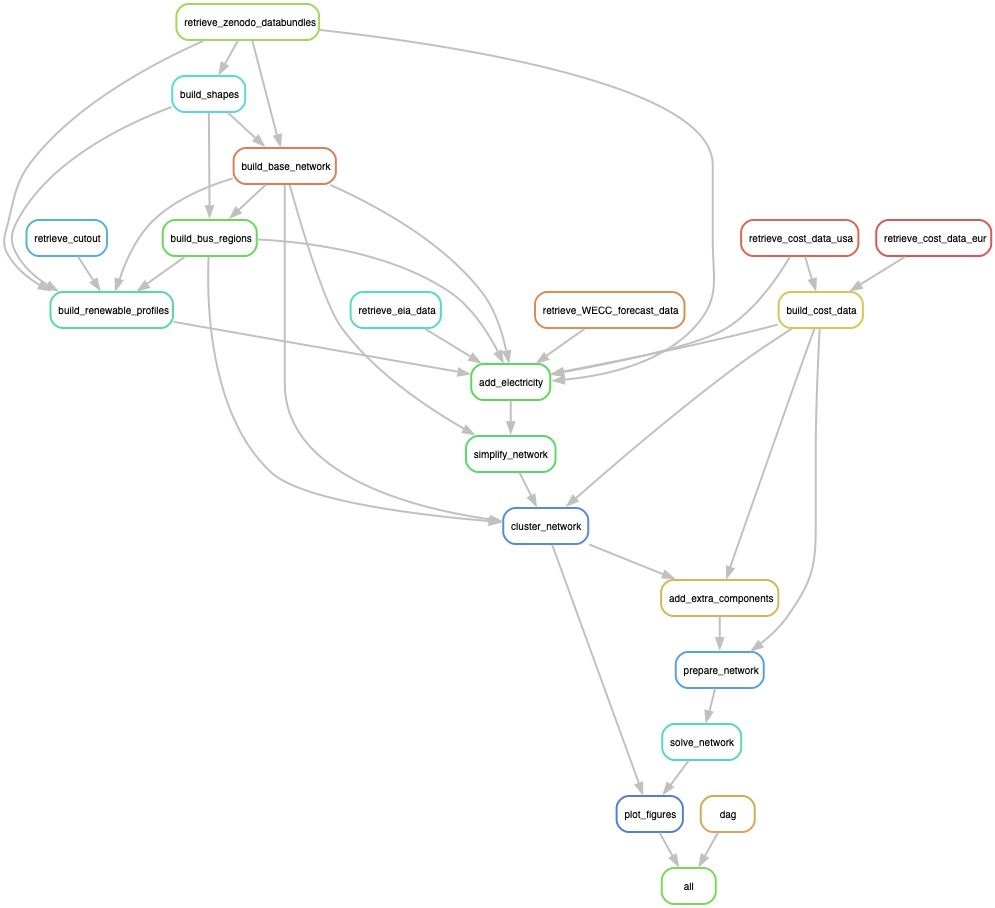
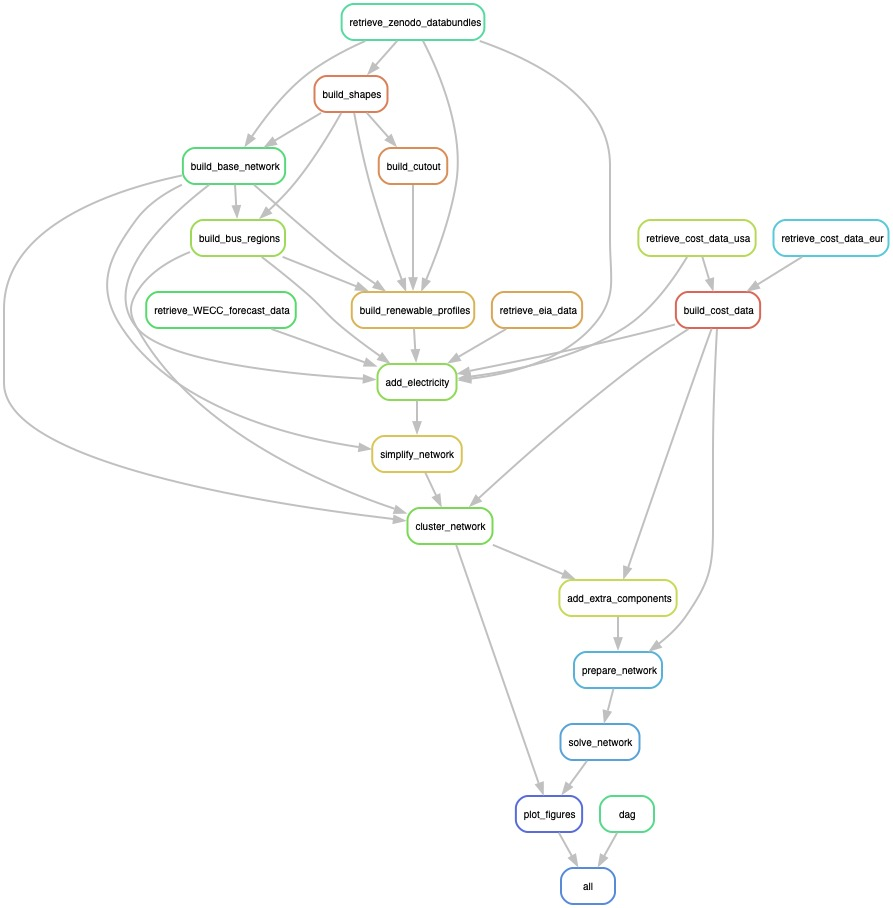
Adds exclusive Economic zone based Offshore Wind shape

diff --git a/workflow/scripts/build_shapes.py b/workflow/scripts/build_shapes.py
@@ -51,6 +51,7 @@ import pandas as pd
 import logging
 from _helpers import mock_snakemake, configure_logging
 from typing import List
+import matplotlib.pyplot as plt
 
 def load_na_shapes(state_shape: str = "admin_1_states_provinces") -> gpd.GeoDataFrame:
     """Creates geodataframe of north america"""
@@ -90,16 +91,17 @@ def combine_offshore_shapes(source: str, shape: gpd.GeoDataFrame, interconnect: 
     """Conbines offshore shapes"""
     if source == "weather.gov":
         offshore = _combine_weather_gov_shape(shape, interconnect, buffer)
-    elif source == "BOEM":
-        offshore = _combine_boem(shape)
+    elif source == "ca_osw":
+        offshore = _dissolve_boem(shape)
+    elif source == "eez":
+        offshore = _dissolve_eez(shape, interconnect, buffer)
     else:
         logger.error(f"source {source} is invalid offshore data source")
         offshore = None
     return offshore
         
-def _combine_weather_gov_shape(shape: gpd.GeoDataFrame, interconnect: gpd.GeoDataFrame, buffer: int = 200000):
+def _combine_weather_gov_shape(shape: gpd.GeoDataFrame, interconnect: gpd.GeoDataFrame, buffer: int = 1000):
     """Combines offshore shapes from weather.gov"""
-    
     crs = ccrs.Mollweide()
     shape = shape.rename(columns={"NAME": "name", "LAT": "y", "LON": "x"})
     gdf_regions_union = interconnect.to_crs(crs).buffer(buffer)
@@ -108,21 +110,33 @@ def _combine_weather_gov_shape(shape: gpd.GeoDataFrame, interconnect: gpd.GeoDat
     offshore = shape[overlap].unary_union
     return gpd.GeoDataFrame([[offshore, "US"]], columns=["geometry", "name"])
     
-def _combine_boem(shape: gpd.GeoDataFrame):
-    """Combines offshore shapes from boem"""
+def _dissolve_boem(shape: gpd.GeoDataFrame):
+    """Dissolves offshore shapes from boem"""
+    # crs = ccrs.Mollweide()
+    shape_split = shape.dissolve().explode(index_parts=False) 
+    # overlap = shape.to_crs(crs).buffer(0).intersects(shape_combine.to_crs(crs)) #maybe typo since overlap not used? 
+    shape_split.rename(columns={"Lease_Name": "name"}, inplace=True)
+    shape_split.name = ['Morro_Bay','Humboldt']
+    return shape_split
+
+def _dissolve_eez(shape: gpd.GeoDataFrame, interconnect: gpd.GeoDataFrame, buffer: int = 1000):
+    """Dissolves offshore shapes of eez. Creates a buffer around the interconnect and subtracts the interconnect from the eez- since no wind will be built very close to shore.... TBD getting better shape files using research already done on this topic."""
     crs = ccrs.Mollweide()
-    shape_combine = shape.dissolve().explode(index_parts=False) 
-    overlap = shape.to_crs(crs).buffer(0).intersects(shape_combine.to_crs(crs)) #maybe typo since overlap not used? 
-    shape_combine.rename(columns={"Lease_Name": "name"}, inplace=True)
-    shape_combine.name = ['Morro_Bay','Humboldt']
-    return shape_combine
-    
+    # shape_split = shape.dissolve().explode(index_parts=False)         
+    shape_split = shape.explode(index_parts=False) 
+    shape_split = gpd.GeoSeries.to_crs(shape_split, crs= 4326)
+
+    # shape_split.rename(columns={"GEONAME": "name"}, inplace=True)
+    # buffered_interconnect = interconnect.to_crs(crs).buffer(buffer)
+    # shape_split = shape_split.to_crs(crs).difference(buffered_interconnect.unary_union)
+    # shape_split = gpd.GeoSeries.to_crs(shape_split, crs= 4326)
+    return shape_split
 
 if __name__ == "__main__":
     logger = logging.getLogger(__name__)
     if 'snakemake' not in globals():
         from _helpers import mock_snakemake
-        snakemake = mock_snakemake('build_shapes', interconnect='western')
+        snakemake = mock_snakemake('build_shapes', interconnect='texas')
     configure_logging(snakemake)
 
     interconnect = snakemake.wildcards.interconnect
@@ -201,23 +215,24 @@ if __name__ == "__main__":
     gdf_ba_states.to_file(snakemake.output.onshore_shapes)
 
     # load offshore shapes
-    offshore_path =snakemake.input.offshore_shapes
-    offshore = gpd.read_file(offshore_path)
+    offshore_config = snakemake.params.source_offshore_shapes
+    if offshore_config == "ca_osw":
+        offshore = gpd.read_file(snakemake.input.offshore_shapes_ca_osw)
+    elif offshore_config == "eez":
+        offshore = gpd.read_file(snakemake.input.offshore_shapes_eez)
 
-    if "weather.gov" in offshore_path:
-        offshore = combine_offshore_shapes(
-            source="weather.gov",
-            shape=offshore, 
-            interconnect=interconnect_regions, 
-            buffer=snakemake.params.buffer_distance
-        )
-    elif "BOEM" in offshore_path:
-        offshore = combine_offshore_shapes(
-            source="BOEM",
-            shape=offshore, 
-            interconnect=interconnect_regions, 
-            buffer=snakemake.params.buffer_distance
-        )
+    #filter buffer from shore
+    buffer_distance = 40000 # buffer distance for offshore shapes from shore.
+    crs = ccrs.Mollweide()
+    buffered_na = gdf_na.to_crs(crs).buffer(buffer_distance)
+    offshore = offshore.to_crs(crs).difference(buffered_na.unary_union)
+
+    offshore = combine_offshore_shapes(
+        source=offshore_config,
+        shape=offshore, 
+        interconnect=interconnect_regions, 
+        buffer=buffer_distance
+    )
 
     offshore_c = offshore.set_crs(4326)
     offshore_c.to_file(snakemake.output.offshore_shapes)

diff --git a/workflow/scripts/build_base_network.py b/workflow/scripts/build_base_network.py
@@ -160,7 +160,7 @@ if __name__ == "__main__":
     logger = logging.getLogger(__name__)
     if 'snakemake' not in globals():
         from _helpers import mock_snakemake
-        snakemake = mock_snakemake('build_base_network', interconnect='western')
+        snakemake = mock_snakemake('build_base_network', interconnect='texas')
     configure_logging(snakemake)
 
     # create network
@@ -196,6 +196,7 @@ if __name__ == "__main__":
     gdf_bus = map_bus_to_region(gdf_bus, state_shape, "state")
     gdf_bus = map_bus_to_region(gdf_bus, state_shape, "country")
     
+    import pdb; pdb.set_trace()
     # add buses, transformers, lines and links
     n = add_buses_from_file(n, gdf_bus, interconnect=interconnect)
     n = add_branches_from_file(n, snakemake.input["lines"])

diff --git a/workflow/scripts/build_bus_regions.py b/workflow/scripts/build_bus_regions.py
@@ -118,7 +118,6 @@ if __name__ == "__main__":
         snakemake = mock_snakemake('build_bus_regions', interconnect="western")
     configure_logging(snakemake)
 
-
     #Configurations
     countries = snakemake.config['countries']
     voltage_level = snakemake.config["electricity"]["voltage_simplified"]
@@ -131,6 +130,7 @@ if __name__ == "__main__":
     logger.info("Built for aggregation with %s zones", aggregation_zones)
 
     n_base = pypsa.Network(snakemake.input.base_network)
+    import pdb; pdb.set_trace()
 
     #Aggregating to substation to ensure building bus regions for only substation level nodes
     n_base.generators['weight'] = 0 #temporary to enable clustering

diff --git a/workflow/scripts/build_cutout.py b/workflow/scripts/build_cutout.py
@@ -101,7 +101,7 @@ logger = logging.getLogger(__name__)
 if __name__ == "__main__":
     if "snakemake" not in globals():
         from _helpers import mock_snakemake
-        snakemake = mock_snakemake("build_cutout", cutout="era5_2019", interconnect="western")
+        snakemake = mock_snakemake("build_cutout", cutout="era5_2019", interconnect="eastern")
     configure_logging(snakemake)
 
     # data set and temporal patameters 
